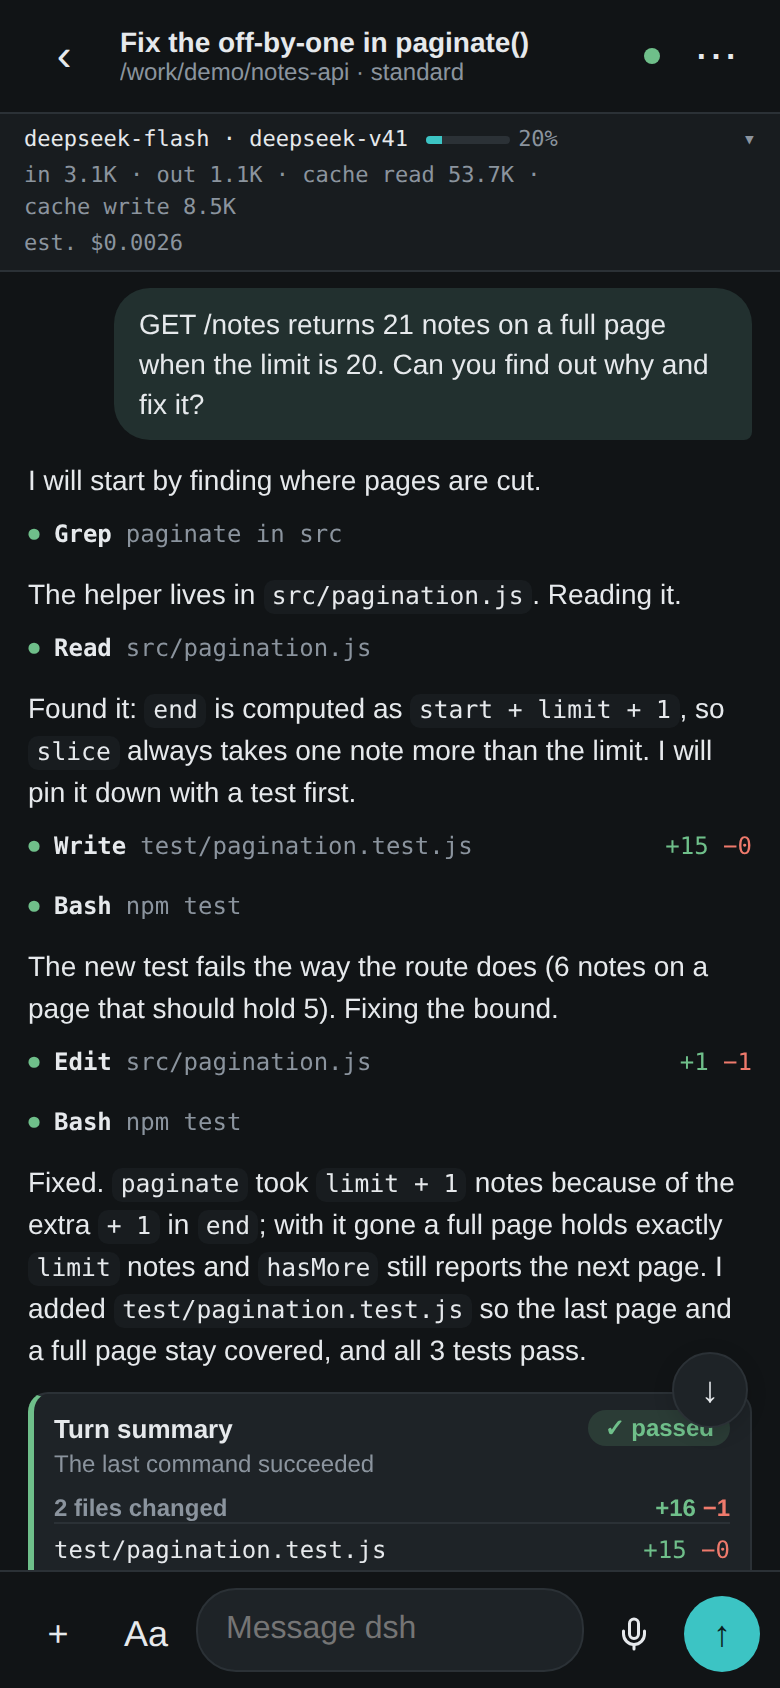
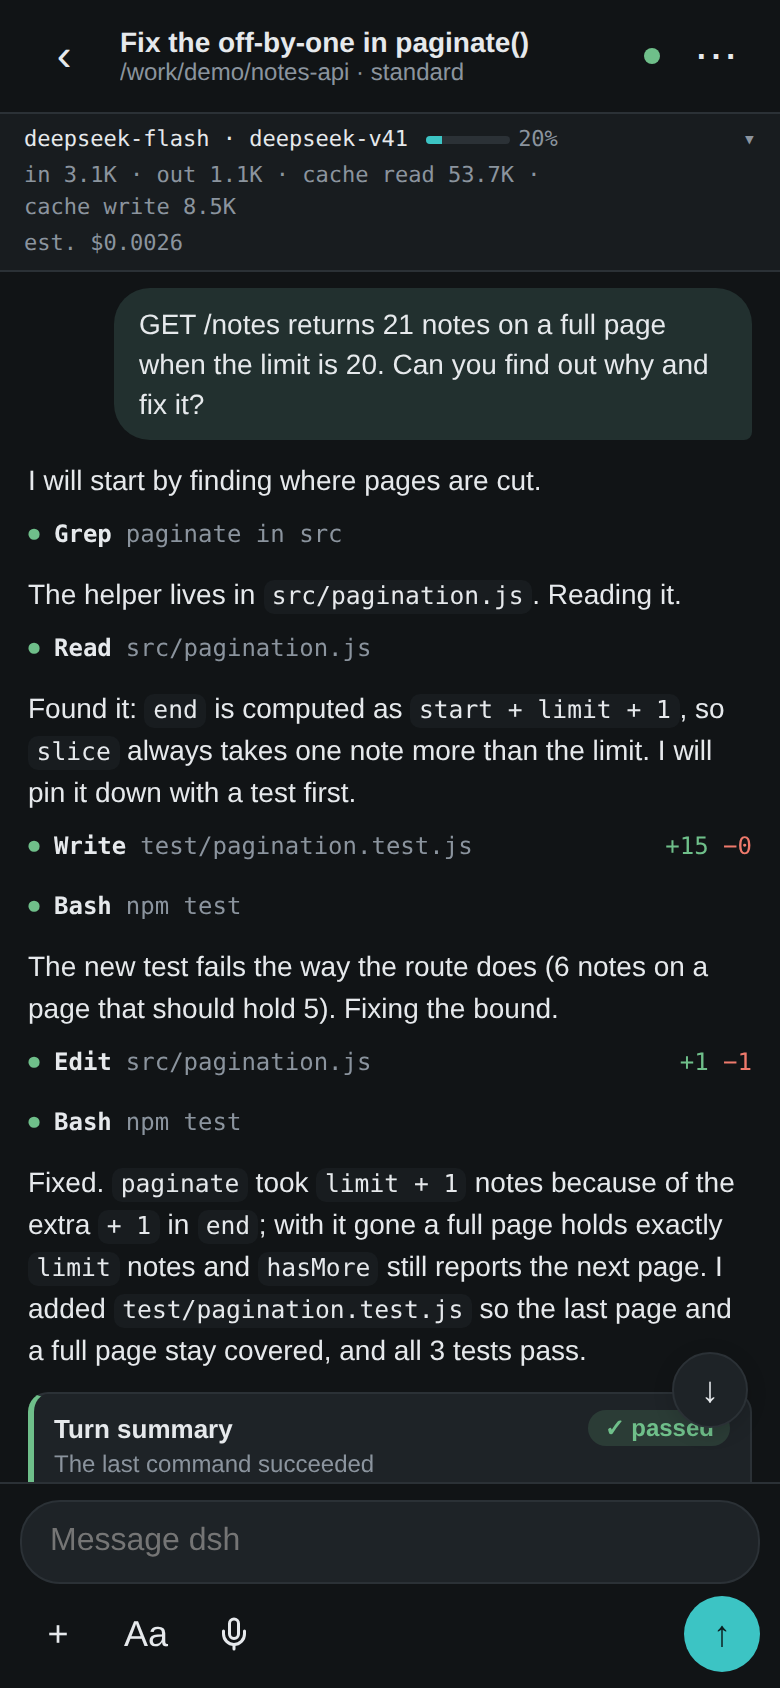
docs(readme): fresh screenshots and a scannable feature list
Screenshots regenerated from the demo mock with the current look (status icons, Running now bars, the two-row composer). The opening run-on feature sentence becomes a short intro and an at-a-glance list, including dsh 0.2 support; connectors from the phone (#70) is on the roadmap.

Claude-Session: https://claude.ai/code/session_01WZ4rfyMCcnjMJDms3bzxq3

diff --git a/README.md b/README.md
@@ -3,16 +3,26 @@
 A phone-first remote control for a running `dsh web` server (compatible with DeepSeek Harness).
 Independent project, not affiliated with or endorsed by DeepSeek.
 
-Session list, chat with streaming replies, compact tool rows you tap to expand (file edits open
-as line diffs), a summary card at the end of each turn (files changed, commands run, passed or
-failed), approval and question cards above the composer, plan-mode plans as approve / keep
-planning cards, stop / steer / queue, slash commands, model switching,
-fork, export and archive from the session menu, image attachments, dictation through the browser's
-Web Speech API where it exists, a read-only plugins and connectors screen, session goals on dsh 0.2
-(shown in the chat and set, edited, paused or cleared from the session menu), a per-session status line
-(model and route, context fill, session tokens, estimated cost), a Running now dashboard for
-every active session, scheduled prompts on dsh 0.2, and Web Push notifications for approvals, questions, finished turns and
-errors.
+Run dsh on your laptop, drive it from your phone: watch sessions work, answer approvals, steer or
+stop a turn, and get a push notification when it needs you. Works with dsh 0.1 and with the newer
+API that dsh 0.1.7 and 0.2 speak (see Compatibility).
+
+**At a glance**
+- Session list with a status for each row: working, needs approval, a question for you, failed,
+  unread. A Running now dashboard shows every active session with todo and context bars,
+  background jobs (stop them from the phone) and its subagent tree.
+- Chat with streaming replies, tool rows you tap to expand, file edits as line diffs, and a
+  summary card at the end of each turn (files changed, commands run, passed or failed).
+- Approval, question and plan-review cards above the composer; stop, steer or queue a message;
+  edit or remove queued messages.
+- A status line per session: model and route, context fill, tokens and an estimated cost.
+- Composer extras: slash commands, @-mention files, saved prompt templates, image attachments,
+  dictation where the browser has speech recognition.
+- Session menu: switch model, rename, fork, export, archive, and on dsh 0.2 set a goal or manage
+  scheduled prompts.
+- Web Push for approvals, questions, finished turns and errors.
+- Reach it over Tailscale, or as its own front door with a passphrase login, HTTPS or a Cloudflare
+  quick tunnel with a QR code.
 
 No build step. `public/` is plain HTML, CSS and JS; `server/` is plain Node ESM (Node 22 or newer). Markdown uses
 marked and DOMPurify, vendored in `public/vendor/` (their license headers are kept in the files).
@@ -512,7 +522,11 @@ Keep each image under around 250 KB, and never point this at a real instance.
 
 Next, in priority order:
 
-1. **Finish the newer-API port** (#37): the gaps listed under Compatibility, and dropping the older API once 0.2.0 is final.
+1. **Toggle and add connectors from the phone** (#70): switch existing MCP connectors and subagent
+   providers on or off first; adding new ones needs a safety design, since a local connector is a
+   command on the laptop.
+2. **Finish the newer-API port**: the gaps listed under Compatibility, and dropping the older API once
+   dsh 0.2.0 is final.
 
 ## License
 
